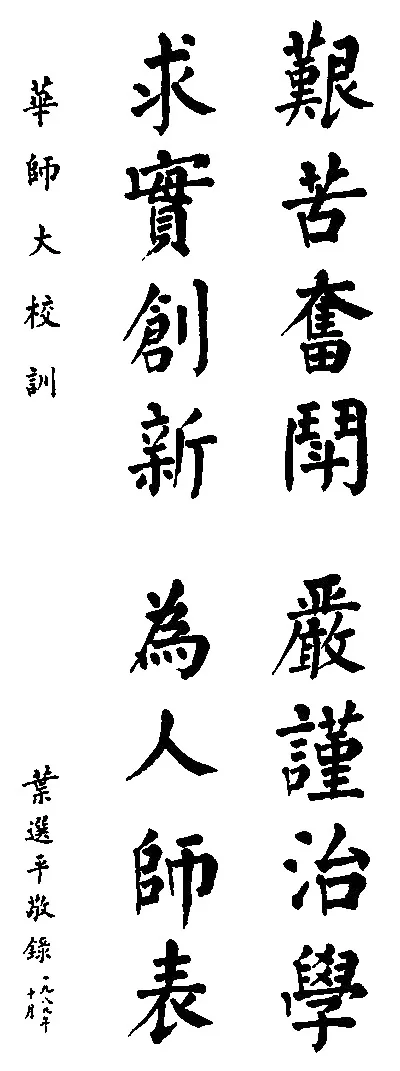
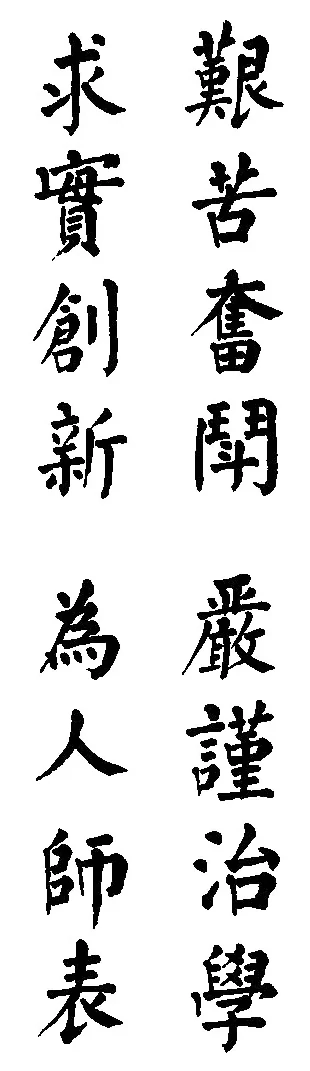
feat(theme): 校训图裁掉落款小字列并缩小显示尺寸（仅留两列正文）

diff --git a/site/index.html b/site/index.html
@@ -376,8 +376,8 @@
     </header>
 
     <!-- 左右两侧校训：fixed 悬浮于视口两侧，上下滚动时始终不动；仅在视口宽度 ≥1700px 时显示，避免窄窗/高缩放时遮挡讲座卡片 -->
-    <img src="motto.webp" alt="华南师范大学校训" loading="lazy" decoding="async" class="motto-side fixed top-1/2 -translate-y-1/2 w-60 h-auto object-contain z-0 pointer-events-none rounded-lg shadow-sm" style="max-height: 90vh; left: 8rem;" />
-    <img src="motto.webp" alt="华南师范大学校训" loading="lazy" decoding="async" class="motto-side fixed top-1/2 -translate-y-1/2 w-60 h-auto object-contain z-0 pointer-events-none rounded-lg shadow-sm" style="max-height: 90vh; right: 8rem;" />
+    <img src="motto.webp?v=2" alt="华南师范大学校训" loading="lazy" decoding="async" class="motto-side fixed top-1/2 -translate-y-1/2 w-40 h-auto object-contain z-0 pointer-events-none rounded-lg shadow-sm" style="max-height: 90vh; left: 8rem;" />
+    <img src="motto.webp?v=2" alt="华南师范大学校训" loading="lazy" decoding="async" class="motto-side fixed top-1/2 -translate-y-1/2 w-40 h-auto object-contain z-0 pointer-events-none rounded-lg shadow-sm" style="max-height: 90vh; right: 8rem;" />
 
     <main class="max-w-4xl mx-auto px-4 py-6 flex-1 w-full">
           <!-- 统计 + 筛选工具栏：同一行，筛选时左侧文字切换为"当前筛选"，避免控件跳行 -->
